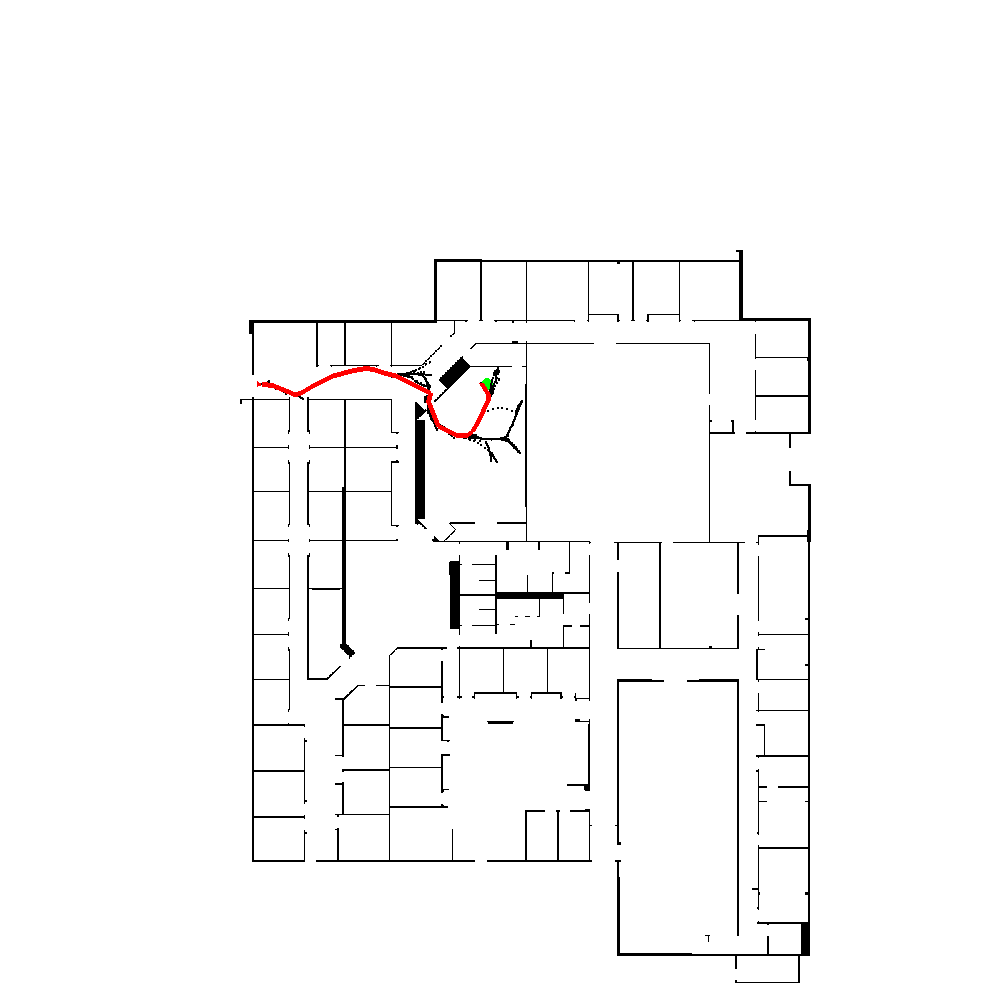
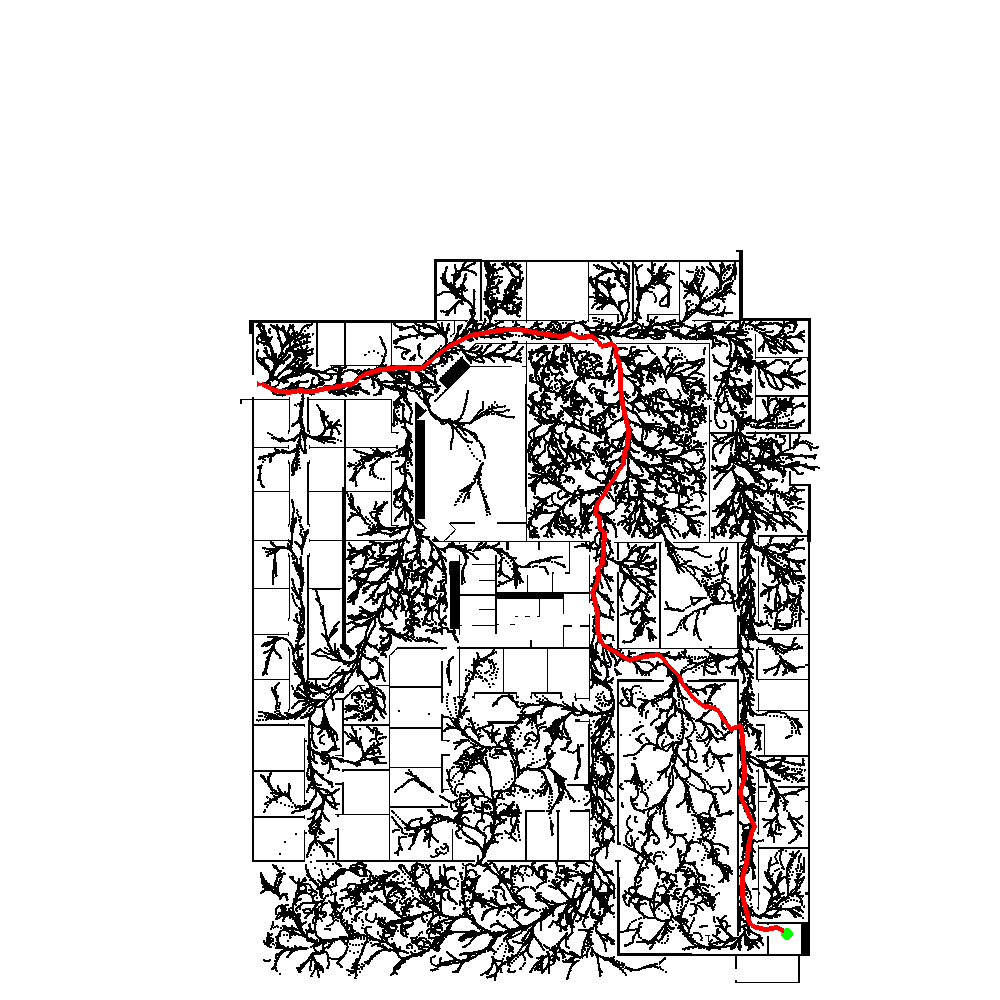
RRT STAR!

Changed region(s): [[0.248, 0.248, 0.806, 0.992], [0.465, 0.651, 0.496, 0.682]]

diff --git a/src/rob521_lab2/lab2/nodes/l2_planning.py b/src/rob521_lab2/lab2/nodes/l2_planning.py
@@ -14,7 +14,7 @@ import math
 import scipy.spatial as sp
 import os
 
-#np.random.seed(4)
+np.random.seed(66)
 
 def load_map(filename):
     im = mpimg.imread("../maps/" + filename)
@@ -65,8 +65,8 @@ class PathPlanner:
 
         # Robot information
         self.robot_radius = 0.22  # m
-        self.vel_max = 0.5  # m/s (Feel free to change!)
-        self.rot_vel_max = 0.2  # rad/s (Feel free to change!)
+        self.vel_max = 0.77 # 0.5  # m/s (Feel free to change!)
+        self.rot_vel_max = 0.69 # 0.2  # rad/s (Feel free to change!)
 
         # Goal Parameters
         self.goal_point = goal_point  # m
@@ -104,6 +104,8 @@ class PathPlanner:
 
         sample_goal = np.random.rand() < 0.1
         better_bounds = np.array([[0.0, 44], [-47, 11]])
+        far_bounds = np.array([[38, 39.5], [-45.8, 43.5]])
+        near_bounds = np.array([[39.5, 42.5], [-45.8, 43.5]])
 
         if not sample_goal:
             x = np.clip(np.random.rand() * (better_bounds[0, 1] - better_bounds[0, 0]
@@ -112,13 +114,19 @@ class PathPlanner:
                                             ) + better_bounds[1, 0], better_bounds[1, 0], better_bounds[1, 1])
             point = np.array([[x], [y]])
         else:
-            dx = 2.5 * self.stopping_dist * np.random.randn()
-            dy = 2.5 * self.stopping_dist * np.random.randn()
-            x = np.clip(self.goal_point[0, 0] + dx,
-                        better_bounds[0, 0], better_bounds[0, 1])
-            y = np.clip(self.goal_point[1, 0] + dy,
-                        better_bounds[1, 0], better_bounds[1, 1])
-            point = np.array([[x], [y]])
+            sample_goal_far = np.random.rand() < 0.35
+            if not sample_goal_far:
+                x = np.clip(np.random.rand() * (far_bounds[0, 1] - far_bounds[0, 0]
+                                            ) + far_bounds[0, 0], far_bounds[0, 0], far_bounds[0, 1])
+                y = np.clip(np.random.rand() * (far_bounds[1, 1] - far_bounds[1, 0]
+                                            ) + far_bounds[1, 0], far_bounds[1, 0], far_bounds[1, 1])
+                point = np.array([[x], [y]])
+            else:
+                x = np.clip(np.random.rand() * (near_bounds[0, 1] - near_bounds[0, 0]
+                                            ) + near_bounds[0, 0], near_bounds[0, 0], near_bounds[0, 1])
+                y = np.clip(np.random.rand() * (near_bounds[1, 1] - near_bounds[1, 0]
+                                            ) + near_bounds[1, 0], near_bounds[1, 0], near_bounds[1, 1])
+                point = np.array([[x], [y]])
 
         return point
 
@@ -573,7 +581,7 @@ class PathPlanner:
 
                                 temp_pt = np.array(trajectory_node[0:2, :]).copy().T
                                 temp_pt_old = np.array(trajectory_old[0:2, :]).copy().T
-                                self.window.add_se2_pose(np.array(trajectory_node[:, -1].reshape((3,))))
+                                # self.window.add_se2_pose(np.array(trajectory_node[:, -1].reshape((3,))))
                                 # for i in temp_pt:
                                 #     self.window.add_point(i)
 
